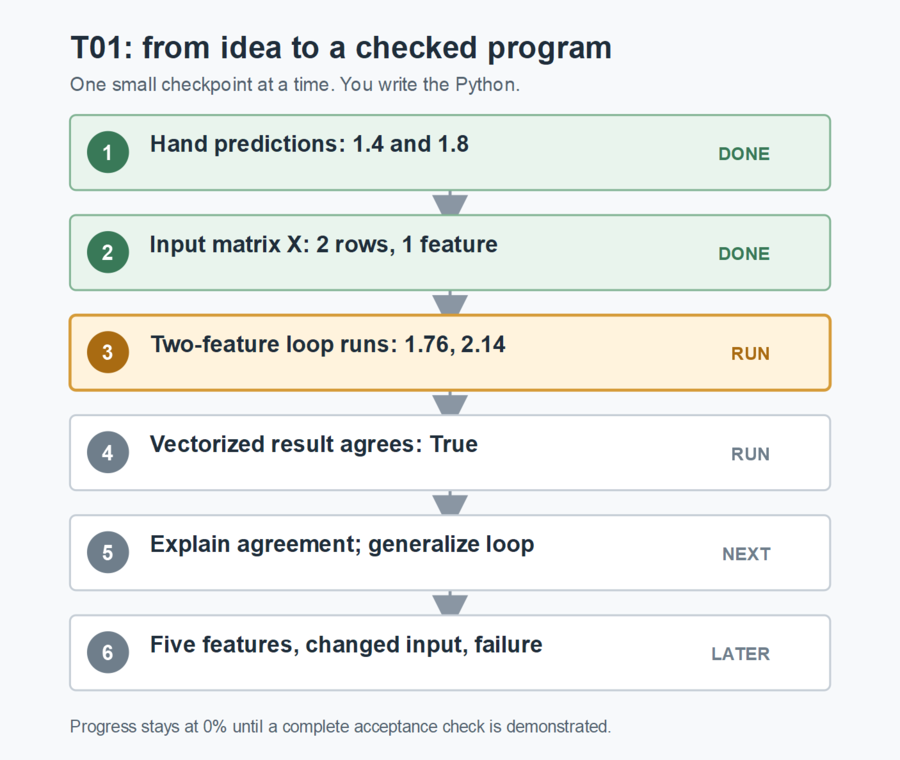
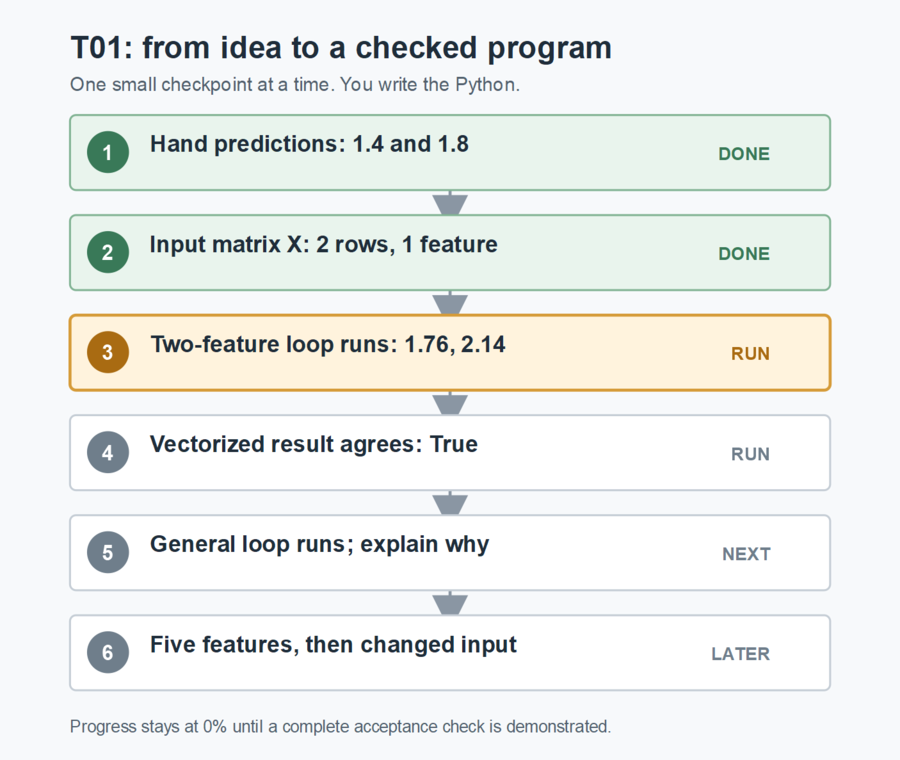
learn(T01): generalize learner prediction loop

Changed region(s): [[0.3422, 0.8171, 0.6222, 0.8776], [0.1556, 0.6961, 0.5911, 0.7566]]

diff --git a/Projects/AI Capital Cycle Quantamental Research Engine/src/01_vectorized_prediction.py b/Projects/AI Capital Cycle Quantamental Research Engine/src/01_vectorized_prediction.py
@@ -12,7 +12,11 @@ print(b)
 
 pred = []
 for i in range(len(x)):
-    pred.append(((w[0]*x[i,0]) + w[1]*x[i,1])+b)
+    subtotal = 0
+    for j in range(len(w)):
+        subtotal += x[i,j]*w[j]
+    subtotal +=b
+    pred.append(subtotal)
 
 pred = np.array(pred)
 

diff --git a/LEARNING_MANUAL.md b/LEARNING_MANUAL.md
@@ -9,9 +9,9 @@ This is the one document to read and work from. It grows as you build the projec
 | Course study | Machine Learning Specialization C1W1 and C1W2 completed, learner-reported; C1W3 not confirmed |
 | Project | P00, first-principles valuation-stretch foundation |
 | Active task | ML-G01-T01: loop and vectorized prediction, now with two features |
-| Correct so far | One-feature hand predictions and shapes; saved two-feature script produces `[1.76 2.14]` from both methods |
+| Correct so far | One-feature hand predictions and shapes; saved two-feature script uses a general nested loop and produces `[1.76 2.14]` from both methods |
 | Still to explain | What numerical agreement proves, why feature and weight counts must match, and why this is not yet a financial conclusion |
-| Code | Learner-written script ran on 2026-09-28; `np.allclose` printed `True` |
+| Code | Learner-written nested loop ran on 2026-09-29; `np.allclose` printed `True` |
 | Evidence-backed progress | Task 0%, P00 0%, overall 0%; execution observed, required explanations and transfer still open |
 
 ![T01 learning flow, showing observed two-feature execution and the next general-loop step](Visuals/current_lesson_flow.png)
@@ -109,7 +109,7 @@ These are building blocks, not a finished solution. You decide the variable name
 |---|---|---|---|
 | 1 | Calculate the two outputs by hand. | `1.4` and `1.8` | Done |
 | 2 | Explain the input, weight, and output shapes. | Correct sizes and one sentence on matching dimensions | In progress; sizes correct, explanation pending |
-| 3 | Write a Python loop for the two rows. | Run it and compare with the hand values | Observed on two-feature data; explanation and generalization pending |
+| 3 | Write a Python loop for the two rows. | Run it and compare with the hand values | General nested loop observed on two-feature data; explanation pending |
 | 4 | Write the vectorized NumPy form. | Show that both versions agree | Observed on two-feature data; explain `allclose` |
 | 5 | Add a second feature, then the five-feature fixture. | Explain new shapes and compare both versions | Two-feature run done; five-feature case later |
 | 6 | Change an input and intentionally create one bad shape. | Explain the changed output and the error | Later |
@@ -118,7 +118,7 @@ The first complete shape-and-hand check earns the first T01 progress credit. Cor
 
 ## 7. When you reach the editor
 
-Open `D:\ML-project\Projects\AI Capital Cycle Quantamental Research Engine\src\01_vectorized_prediction.py`. It contains your learner-written two-feature version. Keep that version working while you make the loop handle an arbitrary number of feature columns.
+Open `D:\ML-project\Projects\AI Capital Cycle Quantamental Research Engine\src\01_vectorized_prediction.py`. It contains your learner-written two-feature version with a nested loop that handles any number of matching feature columns and weights. Preserve this working baseline as you extend the fixture.
 
 From PowerShell, after you have written the code, the file can be run from any directory with:
 
@@ -134,7 +134,7 @@ Today's picture shows the task path, not model performance. When you reach gradi
 
 ## Next action
 
-Explain in your own words what `np.allclose(...)=True` establishes and what it cannot establish. Then generalize only your loop: for each company row `i`, start a subtotal, visit each feature column `j`, add the product of `x[i, j]` and `w[j]`, and add `b` once after the feature products. Rerun the current two-feature data. Both output arrays should remain `[1.76 2.14]` and the comparison should remain `True`. This prepares the same loop for five features without writing five separate terms.
+Your nested loop now visits each company row and each feature column, and the two-feature rerun agrees with `np.dot`. Explain why the inner loop runs once per feature and why `b` is added only once per company. Next, use the frozen five-feature table in the task brief, predict one row by hand before running, and check that the same loop agrees with the vectorized result. `np.allclose(...)=True` will show implementation agreement, not financial accuracy.
 
 ## How this manual is maintained
 

diff --git a/PROGRESS.md b/PROGRESS.md
@@ -1,6 +1,6 @@
 # Project progress
 
-Updated: 2026-09-28
+Updated: 2026-09-29
 
 ## Current position
 
@@ -24,7 +24,7 @@ Phase P00        [--------------------]   0%
 Overall project  [--------------------]   0%
 ```
 
-The learner wrote a two-feature loop and vectorized prediction in the task file. On 2026-09-28 the script ran and printed `[1.76 2.14]` from both paths and `True` from `np.allclose`. The earlier one-feature runs were shown in dialogue, but the saved file now contains the two-feature version. Dimension matching, numerical-comparison meaning, and transfer to a general loop remain to be explained, so no complete T01 check has been credited yet.
+The learner wrote a two-feature loop and vectorized prediction in the task file. On 2026-09-29 the learner generalized the loop over feature columns; the saved script ran and printed `[1.76 2.14]` from both paths and `True` from `np.allclose`. The earlier one-feature runs were shown in dialogue, but the saved file now contains the two-feature version. Independent explanation and transfer to five features remain open, so no complete T01 check has been credited yet.
 
 The [software engineering path](ENGINEERING_LEARNING_PATH.md) is planned across these phases, from Python file structure through SQL, APIs, frontend work, and system design. It earns no separate completion credit from documentation; each phase will require observed engineering evidence at its own gate.
 
@@ -78,7 +78,7 @@ Each T01 check is worth 20% of the task. Evidence must include the learner's exp
 | Two-row, one-feature shapes and hand predictions | open: dimension-matching explanation pending | [hand predictions and `X` shape](Journey/2026-09-23-ML-G01-T01.md); [remaining shapes](Journey/2026-09-24-ML-G01-T01.md) |
 | Learner-written loop on starter data | open: starter result shown in dialogue; explanation and durable run record pending | [current two-feature code](Journey/2026-09-28-ML-G01-T01.md) |
 | Vectorized prediction agrees on starter data | open: starter agreement shown in dialogue; comparison meaning pending | [current two-feature code](Journey/2026-09-28-ML-G01-T01.md) |
-| Two- and five-feature agreement plus changed input | open: two-feature agreement observed; five-feature and changed-input runs pending | [verified two-feature run](Journey/2026-09-28-ML-G01-T01.md) |
+| Two- and five-feature agreement plus changed input | open: generalized two-feature loop agrees; five-feature and changed-input runs pending | [verified nested-loop run](Journey/2026-09-28-ML-G01-T01.md) |
 | Shape failure and finance meaning explained | open | none |
 
 If T01 reaches 100%, P00 gains 15 percentage points and the overall project gains 1.5 percentage points (`10%` phase weight x `15%` task weight). Other tasks have their own weights and acceptance checks.
@@ -96,4 +96,4 @@ If T01 reaches 100%, P00 gains 15 percentage points and the overall project gain
 
 ## Next milestone
 
-Explain what `np.allclose` establishes and why it is not proof that the financial model is good. Generalize the learner-written loop to iterate over feature columns without hard-coded indexes, then rerun the two-feature check before moving to the five-feature fixture.
+Explain why the inner loop runs once per feature and why the bias is added once after it. Then extend the learner-written code to the five-feature fixture, predict one row by hand, and compare loop and vectorized outputs. Explain what `np.allclose` proves and what it cannot prove about the finance model.

diff --git a/00_CURRENT_CONTEXT.md b/00_CURRENT_CONTEXT.md
@@ -1,7 +1,7 @@
 ---
 type: ml-current-context
 status: active
-updated: 2026-09-28
+updated: 2026-09-29
 active_goal: ML-G01
 active_task: ML-G01-T01
 ---
@@ -14,7 +14,7 @@ This is the compact mentor resumption note for `D:\ML-project`. The learner work
 
 - Project: AI Capital Cycle Quantamental Research Engine.
 - Public repository: [Shreyash3007/ai-capital-cycle-quantamental-research](https://github.com/Shreyash3007/ai-capital-cycle-quantamental-research).
-- Publication state: documentation baseline is on public `main`; the learner's current two-feature implementation has run locally and awaits the next reviewed push.
+- Publication state: the first two-feature implementation is on public `main`; the learner's generalized nested-loop change has run locally and awaits the next reviewed push.
 - Mentor Mode: active; follow [MENTOR_MODE.md](MENTOR_MODE.md).
 - Phase: P00, C1W2 first-principles valuation engine.
 - Goal: [ML-G01 - C1W2 Valuation Stretch Foundation](Goals/ML-G01%20-%20C1W2%20Valuation%20Stretch%20Foundation/GOAL.md).
@@ -24,7 +24,7 @@ This is the compact mentor resumption note for `D:\ML-project`. The learner work
 - Progress: task 0%, phase 0%, overall 0% because execution is observed but no full explained acceptance check is closed; canonical ledger: [PROGRESS.md](PROGRESS.md).
 - Assistance debt: none.
 - Course coverage: Machine Learning Specialization C1W1 and C1W2 completed, learner-reported. C1W3 has not been confirmed. P00 uses C1W1 prediction, cost, and gradient descent as well as C1W2 methods. Later methods may be introduced early with a first-principles explanation, a bounded task, and a learner understanding check; this does not mark a course week or project capability complete.
-- Next action: explain `np.allclose` as an approximate elementwise agreement check, not proof of financial validity. Ask the learner to explain that distinction in their own words, then generalize the loop over feature columns without hard-coded indexes and rerun the two-feature case. The current saved run shows `x.shape == (2, 2)`, `w.shape == (2,)`, both predictions `[1.76 2.14]`, and `True` from `np.allclose`.
+- Next action: the learner has written and run a nested loop over feature columns. The current saved run shows `x.shape == (2, 2)`, `w.shape == (2,)`, both predictions `[1.76 2.14]`, and `True` from `np.allclose`. Ask why the inner loop runs once per feature and why `b` is outside it, then move to the five-feature fixture with one hand prediction before running. Explain `np.allclose` as implementation agreement, not proof of financial validity.
 
 ## Current research target
 
@@ -76,4 +76,4 @@ The cross-phase [software engineering path](ENGINEERING_LEARNING_PATH.md) now in
 
 ## Evidence state
 
-The learner's two-feature prediction code has executed and matched the hand values, but the required explanations, general loop, five-feature transfer, changed input, and failure experiment remain open. The current run is implementation evidence, not a completed research capability. After each task, record observed checks in `PROGRESS.md`, then refresh this note last.
+The learner's general nested-loop two-feature prediction code has executed and matched the hand values, but the required explanations, five-feature transfer, changed input, and failure experiment remain open. The current run is implementation evidence, not a completed research capability. After each task, record observed checks in `PROGRESS.md`, then refresh this note last.

diff --git a/JOURNEY.md b/JOURNEY.md
@@ -18,6 +18,7 @@ This is the chronological record of decisions, attempts, evidence, and changes i
 | 2026-09-24 | [Cumulative learning manual](LEARNING_MANUAL.md) added with the full current lesson; its flow and the [knowledge graph](KNOWLEDGE_GRAPH.md) now use rendered PNGs instead of Mermaid code. | Documentation only; T01 evidence unchanged. |
 | 2026-09-24 | [T01 shape checkpoint](Journey/2026-09-24-ML-G01-T01.md): `w.shape == (1,)` and prediction shape `(2,)` answered correctly. | Correct shapes; explanation and Python run still open. |
 | 2026-09-28 | [T01 first saved Python run](Journey/2026-09-28-ML-G01-T01.md): learner-written loop and vectorized two-feature predictions both returned `[1.76 2.14]`; `np.allclose` returned `True`. | Code execution observed; explanation and transfer checks still open. |
+| 2026-09-29 | [T01 nested-loop continuation](Journey/2026-09-28-ML-G01-T01.md): learner generalized the loop over feature columns; saved script reran with matching two-feature outputs. | General loop execution observed; five-feature and explanation checks still open. |
 
 The setup documents were prepared with mentor assistance. They are project planning, not learner-authored model code or proof of mastery.
 

diff --git a/Journey/2026-09-28-ML-G01-T01.md b/Journey/2026-09-28-ML-G01-T01.md
@@ -17,3 +17,10 @@
 ## Next action
 
 Have the learner explain in one sentence what `True` establishes and what it cannot establish. Then guide them to use an inner feature loop that pairs each `x[i, j]` with `w[j]`, accumulates products, and adds `b` once per company. Rerun the two-feature case before extending the data.
+
+## 2026-09-29 continuation
+
+- The learner wrote the nested loop in the same assignment file. It starts a subtotal per row, adds `x[i, j] * w[j]` for each weight, then adds `b` once and appends the result.
+- Mentor reran the saved script with the same command. Output: shapes `(2, 2)` and `(2,)`, bias `1.0`, loop `[1.76 2.14]`, vectorized `[1.76 2.14]`, comparison `True`.
+- The code now handles any number of columns when the number of weights matches. The learner has not yet run the five-feature fixture or explained the finance meaning and comparison limitation independently. Progress remains 0% under the stated explained-check rule.
+- Next: move to the five-feature fixture, predict one row by hand, then check loop/vectorized agreement. First ask the learner to explain why the inner loop runs once per feature and why `b` is outside it.
